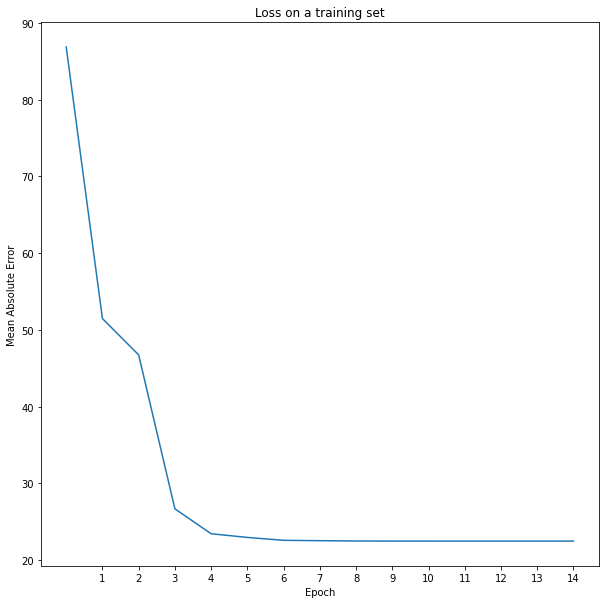
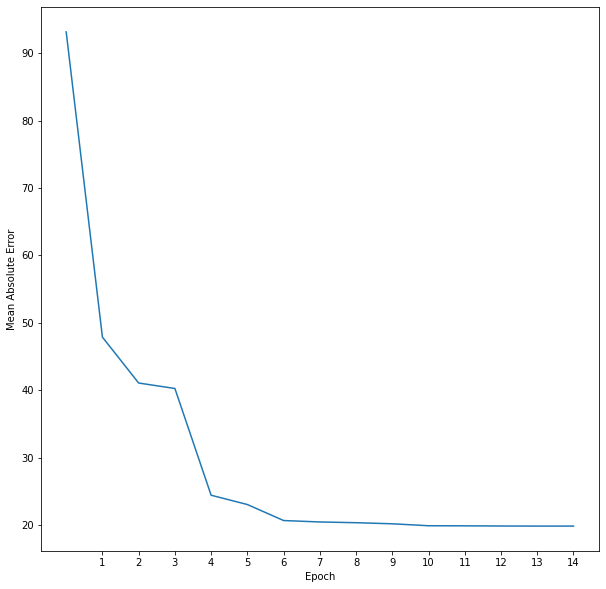
Commit 22.06.2021 Evening 22:24 Another draft for my advisor.

diff --git a/imf_strona_tytulowa_pracy.tex b/imf_strona_tytulowa_pracy.tex
@@ -138,10 +138,35 @@
 \def\rok{2021}
 %% KONIEC DANYCH
 %%%%%%%%%%%%%%%%%%%%%%%%%%%%%%%%%%%%%%%%%%%%%%%%%%%%%%%%%%%%%%%%%%%%%%%%%%%%%
+
+
+
+
+
+
 \begin{document}
+
+
+
+
 \maketitle
 \listoffigures
 
+\chapter*{Abstract}
+
+The main goal of this thesis was to show how deep learning, a subset of machine learning, can be used to predict quantum mechanical parameters calculated from the Schrödinger equation i.e. atomization energies by using specific representation of molecules known as Coulomb Matrices which can be used as the input data for feed-forward neural network. 
+
+Physical analysis of quantum mechanical properties gives plethora of information about the microscopic world but the standard methods of solving the Schrödinger equation have large computational complexity and require heavy numerical calculations which can take days to finish. On the other hand, experimental workings take too much time to set up and can be financially expensive. It would be highly beneficial to leverage modern power of artificial neural networks.
+
+Machine learning has becoming more and more popular due to increase in computational power and very useful tools from statistical methods. It is natural then to use methods offered by ML to adapt them to problems in Physics that can result in optimal solutions to given tasks.
+
+\chapter*{Abstrakt}
+
+Głównym celem pracy było ukazanie jak metody uczenia głębokiego, które są podzbiorem uczenia maszynowego, mogą być użyte do predykcji wielkości kwantowo-mechanicznych uzyskanych z równania Schrödinger'a t.j energii atomizacji używając odpowiedniej reprezentacji molekuł jako macierze Coulomba, które mogą być użyte jako dane wejściowe w głębokiej sieci neuronowej.
+
+Analiza fizyczna wielkości kwantowo-mechanicznych jest w stanie ukazać ogrom informacji na temat świata mikroskopowego aczkolwiek standardowego metody rozwiązywania równania Schrödinger'a są złożone obliczeniowo i wymagają trudnych numercznych metod, które mogą trwać nawet do kilku dni. Z drugiej strony, podejście eksperymentalne zajmuje dużo czasu i może być również kosztowne finansowo. Byłobo wysoce efektywne wykorzystać nowoczesne metody sztucznych sieci neuronowych.
+
+Uczenie maszynowe staje się ocraz bardziej popularne w związku ze zwiększeniem się mocy obliczeniowej komputerów oraz wsparciem ze strony metod statystycznych. Jest zatem zrozumiałe aby użyć metod uczenia maszynowego by zaadoptować je do problemów w fizyce, które mogą skutkować optymalnym rozwiązaniem rozważanego problemu.
 
 
 
@@ -369,38 +394,36 @@ put the data into machine learning algorithm and train it until it starts to see
 
 \section{Types of machine learning}
 
+This section will provide the description of four fundamental types of machine learning. When faced with problem, one type might give better results than the others so it is important to summarise when can we apply each technique. 
+
+
 \subsection{Supervised machine learning}
 
-Supervised learning requires a labeled dataset. We train our model on the labeled and known. Supervised machine learning requires less training data than other machine learning methods and makes training easier because the results of the model can be compared to actual labeled results.
+Supervised machine learning concentrates on labeled data which are known before we even start to train the algorithm. We try to predict the unseen or future data by feeding known labels to the algorithm. A popular example is how email spam filtering works. If we have data consisting of two labels: a spam message or non-spam message, we can train the algorithm on that data to predict the future spam message and classify them accordingly so our experience of handling e-mails will be much better \cite{raschka}\cite{aurelion}.  
 
 
 
 \subsection{Unsupervised machine learning}
 
-Unsupervised learning is less about automating decisions and predictions, and more about identifying patterns and relationships in data that humans would miss. The unsupervised learning algorithm can analyze huge volumes of emails and uncover the features and patterns that indicate spam 
-
-\subsection{Semi-supervised learning }
-
-Semi-supervised learning offers a happy medium between supervised and unsupervised learning. During training, it uses a smaller labeled data set to guide classification and feature extraction from a larger, unlabeled data set.
+Unsupervised learning focuses on unlabeled data or a data with unknown structure. We can take a large pile of data and organize them into subgroups also called clusters. We can then study and analyse these and find groups that share some of similarity between each other and they are more dissimilar with respect to other groups. We can then structure the data and discover new patterns and labels through grouping similar data \cite{raschka}\cite{aurelion}.
 
 \subsection{Reinforcement machine learning}
 
-Reinforcement learning is the training of machine learning models to make a sequence of decisions for a given scenario.
-At its core, we have an autonomous agent such as a person, robot, or deep net learning to navigate an uncertain environment. The goal of this agent is to maximize the numerical reward.
+Reinforcement learning is based on the system (an agent) that acts with the environment and is seeking a reward signal. It is similar to supervised learning but the system does not learn from labels or values but rather it constantly searches for an action that will produce the greatest value by a reward function. Through trial and error, agent learns how it should do a given task to maximize its reward \cite{raschka}\cite{aurelion}.
 
 
 \subsection{Deep learning}
 
-Deep learning is a subset of machine learning (all deep learning is machine learning, but not all machine learning is deep learning). Deep learning algorithms define an artificial neural network that is designed to learn the way the human brain learns. Deep learning models use data that pass through multiple neurons, then the weights and biases are applied in each successive layer to continually adjust and improve the outcomes.
+Deep learning is a subset of machine learning (all deep learning is machine learning, but not all machine learning is deep learning). Deep learning algorithms use an artificial neural network that is designed to learn the way the human brain learns. Deep learning models use data that pass through multiple neurons, then the weights and biases are applied in each successive layer to continually adjust and improve the outcomes \cite{Goodfellow-et-al-2016}.
 
 
 \section{Machine learning pipeline}
 
-To be able to build a machine learning model one can summarize the idea in below steps\cite{what_ML_IBM}:
+In order to construct a machine learning model these are typical steps to be followed \cite{what_ML_IBM}:
 
 \subsubsection{Selection and preprocessing of a dataset}
 
-Every machine learning model should have a dataset that will be split into two parts: the training set and the testing set. The training set is necessary in order for a model to learn from its mistakes. The test set is used to see how well the model predicts values of interest. Depending on the dataset, it can be labeled, meaning that it has 'tags' which combined with certain features can give us solid outputs, other times the data is unlabeled, meaning that the model will have to extract the hidden patterns from the features itself.
+Machine learning models typically learn on two kinds of dataset that is split before the learning takes place: the training set and the testing set. The training set is necessary in order for a model to learn from its mistakes. The test set is used to see how well the model predicts values of interest previously unseen. The test set offers a clear message when the learning is done, based on the score on the test set we can either state that the given model handles the predition correctly or it does not work for a given problem. Depending on the dataset, it can be labeled, meaning that it has 'tags' which combined with certain features can give us solid outputs, other times the data is unlabeled, meaning that the model will have to extract the hidden patterns from the features itself.
 
 \subsubsection{Categorical and numerical data}
 
@@ -546,7 +569,7 @@ If we rearange the terms and define a weight-zero as $w_{0} = - \theta$ and $x_{
 
 After this operation we write $\phi(z)$ as:
 
-\begin{equation}
+\begin{equation} \label{step_function}
     \phi(z) = 
 \begin{cases}
      1  & \text{if } z \geq 0, \\
@@ -555,10 +578,25 @@ After this operation we write $\phi(z)$ as:
 \end{equation}
 
 
-The negative threshold is often called the bias unit.\cite{raschka}
+The negative threshold is often called the bias unit\cite{raschka}.
 
 \subsection{Learning rule of the perceptron}
 
+
+The key principle of how perceptron learns from the data is the update of weights. The simultaneous update of each weight $w_{j}$, in the weight vector $\textbf{w}$, can be written as \cite{raschka}:
+
+\begin{equation} \label{update_rule}
+    w_{j} := w_{j} + \Delta w_{j},
+\end{equation}
+
+where the change in $w_{j}$ is calculated as:
+
+
+\begin{equation} \label{delta_wj}
+    \Delta w_{j} = \eta (y^{(i)} - \hat{y}^{(i)}) x_{j}^{(i)},
+\end{equation}
+
+where $\eta$ is called the learning rate, $y^{(i)}$ is a true class label and $\hat{y}^{(i)}$ is the class predicted by perceptron.
 
 The whole idea of a learning rule for perceptron can be summarised in a simple manner:
 
@@ -567,7 +605,7 @@ The whole idea of a learning rule for perceptron can be summarised in a simple m
     \item For every training example $\textbf{x}^{(i)}$:
     \begin{itemize}
         \item Compute the output value $\hat{{y}}$ ;
-        \item Update the weights according to update rule;
+        \item Update the weights according to update rule (\ref{delta_wj});
     \end{itemize}
 \end{enumerate}
 
@@ -578,11 +616,11 @@ To understand the concept of multilayer neural networks let us begin with simple
 The main difference between Rosenblatt's perceptron learning rule and Adaline is the update of weights. The weights are updated using a linear function also called activation function (crucial concept for deep learning methods) instead of being updated by a unit step function. The activation function in Adaline is written as $\phi(z)$ which is just:
 
 
-\begin{equation}
+\begin{equation} 
     \phi(z) =  \phi(\textbf{w}^{T} \textbf{X}) = \textbf{w}^{T} \textbf{X}.
 \end{equation}
 
-However, the algorithm still needs  a threshold function to predict the final output, linear function only learns the weights.
+The threshold function is still used to predict the final outcome (class)  as is being done in the Perceptron learning rule (\ref{step_function})
 
 \section{The Multilayer Perceptron and Backpropagation}
 
@@ -648,52 +686,6 @@ we just update the weights for each example:
 \end{equation}
 
 The strength of stochastic gradient descent is reaching convergence much faster than the "regular" gradient descent, after all, we update the weights more frequently. Each gradient is evaluated on a single example therefore there is the error surface is noiser than in GD which has its advantage when it comes to escaping local minima. It is worth to mention that to get accurate results one must shuffle the dataset for every iteration to prevent cycles and one must present the data in a random order. \cite{raschka}
-
-
-\subsection{Automatic differentiation}
-
-
-Calculating the derivatives by hand in gradient descent algorithm would be quite tedious especially when we have many iterations of our model. Derivatives in computing can can be calculated by four main methods:
-
-\begin{itemize}
-    \item working out derivatives manually and coding results into computer;
-    \item  numerical differentiation;
-    \item symbolic differentiation using computer algebra;
-    \item automatic differentiation;
-\end{itemize}
-
-
-While we could figure out derivatives manually and then put them into a computer and this would get rid of problems with approximation errors and make the derivatives stable in comparison with numerical differentiation, this method has an unavoidable weakness, it is prone to human error and as was said before can become tiresome after a while. Symbolic differentiation could have been a sweet spot between both previous methods but can result with the problem of "expression swell".
-
-The automatic differentiation (AD) gives another look at the problem. It consistently applies the chain rule of calculus to calculate a "flow" of derivatives. Given a series of computations $y = f(g(h(x)))$ with input $x$ and output $y$ we broke this into a series of steps: \cite{raschka}
-
-\begin{itemize}
-    \item $u_{0} = x$;
-    \item $u_{1} = h(x)$;
-    \item $u_{2} = g(u_{1})$;
-    \item $u_{3} = f(u_{2}) = y$;
-\end{itemize}
-
-Then the derivative $\frac{dy}{dx}$ can be computed in two different ways:
-
-\begin{itemize}
-    \item forward accumulation: $\frac{du_{3}}{dx} = \frac{du_{3}}{du_{2}}\frac{du_{2}}{du_{0}}$
-    \item backward accumulation: $\frac{dy}{du_{0}} = \frac{dy}{du_{1}}\frac{du_{1}}{du_{0}}$
-\end{itemize}
-
-
-
-
-
-
-It is important to remember that automatic differentiation is not numerical differentiation. The standard finite difference formula uses a definition:
-
-\begin{equation}
-    \frac{d f(x)}{dx} = \lim_{h \to 0} \frac{f(x + h) - f(x)}{h}.
-\end{equation}
-
-While it is easy to implement it is prone to truncation and round-off errors. AD is also not symbolic differentiation such as we see in CAS programs (computer algebra system) like Mathematica, Maple, Maxima, Sage, Matlab. Symbolic results allow for analytical methods to solve a problem but one must take into account that expressions can get exponentially larger through differentiation. \cite{baydin2014automatic}
-
 
 \subsection{Backpropagation}
 
@@ -1007,17 +999,14 @@ Y_scaled = Y / Y_max
 We begin by using the holdout method and we are splitting the data into three parts: a training dataset, a validation dataset, and a test dataset. Test data set vs validation and training data set is split in 80:20 ratio. Same is the split for training and validation.
 
 
-\begin{verbatim}
+\begin{lstlisting}
 # Leave data that will be "unseen" in X_test and Y_test variables
-X_trainvalidate, X_test, Y_trainvalidate, Y_test = train_test_split(X_scaled, 
-                                                                    Y_scaled,  
-                                                    test_size=.20, 
-                                                    random_state=666)
+X_trainvalidate, X_test, Y_trainvalidate, Y_test = train_test_split(X_scaled, Y_scaled,  test_size=.20, random_state=666)
 
 # Data for the algo input
 X_train, X_validation, Y_train, Y_validation = train_test_split(X_trainvalidate,  Y_trainvalidate,  
 test_size=.20, random_state=666)
-\end{verbatim}
+\end{lstlisting}
 
 
 \subsection{Sequential model}
@@ -1081,7 +1070,7 @@ reduce_eta = ReduceLROnPlateau(monitor='val_loss', factor=0.1, patience=1, verbo
 n_epochs = 15
 
 history = model.fit(X_train, Y_train,
-                      batch_size=4,
+                      batch_size=10,
                       epochs=n_epochs, 
                       callbacks=[reduce_eta],
                       verbose=1,
@@ -1103,7 +1092,7 @@ The algorithm was given 15 epochs until it finished training itself and Mean Abs
 
 \begin{figure}[h!]
 \centering
-\includegraphics[scale=0.5]{DocumentFigures/ZdjeciaWalidacja/MAEtest.png}
+\includegraphics[scale=0.6]{DocumentFigures/ZdjeciaWalidacja/MAEtest.png}
 \caption{Summary of the model after all iterations have passed}
 \end{figure}
 
@@ -1144,7 +1133,7 @@ The algorithm was given 15 epochs until it finished training itself and Mean Abs
 
 \section{Conclusions}
 
-The author of this thesis has described the quantum principles that have been used to calculate chemical quantum parameters such as atomization energy. Then a brief description of machine learning and deep learning was provided to explain how one can use ML algorithms to predict atomization energy. By leveraging Python language and its libraries, it has been shown how one can construct a whole machine learning model - a feed-forward neural network - which is able to give predictions for quantum mechanical parameter. We can see that the network has reached convergence both on training set and validation set implying that it has found the approximated solution (approximated energies) with $23.04$ MAE. The $R^2$ coefficient of determination of the regression analysis gives $0.9769$ which implies that the approximated energies were predicted in a way that they closely resemble the real ones. Residual analysis shows that there are only few outliers and there is not a clear visible pattern constructed from points therefore we can say that the model is able to capture some explanatory information.
+The author of this thesis has described the quantum principles that have been used to calculate chemical quantum parameters such as atomization energy. Then a brief description of machine learning and deep learning was provided to explain how one can use ML algorithms to predict atomization energy. By leveraging Python language and its libraries, it has been shown how one can construct a whole machine learning model - a feed-forward neural network - which is able to give predictions for quantum mechanical parameter. We can see that the network has reached convergence both on training set and validation set implying that it has found the approximated solution (approximated energies) with $20.701$ MAE. The $R^2$ coefficient of determination of the regression analysis gives $0.9807$ which implies that the approximated energies were predicted in a way that they closely resemble the real ones. Residual analysis shows that there are only few outliers and there is not a clear visible pattern constructed from points therefore we can say that the model is able to capture some explanatory information.
 
 It has been shown that Deep Learning methods can be used to solve an interesting Physics problem in QM. What remains is the need to improve the validity of the models and closely approach the chemical and physical accuracy that one can achieve by the experiment.
 
@@ -1235,7 +1224,7 @@ reduce_eta = ReduceLROnPlateau(monitor='val_loss', factor=0.1, patience=1, verbo
 n_epochs = 15
 
 history = model.fit(X_train, Y_train,
-                      batch_size=4,
+                      batch_size=10,
                       epochs=n_epochs, 
                       callbacks=[reduce_eta],
                       verbose=1,
